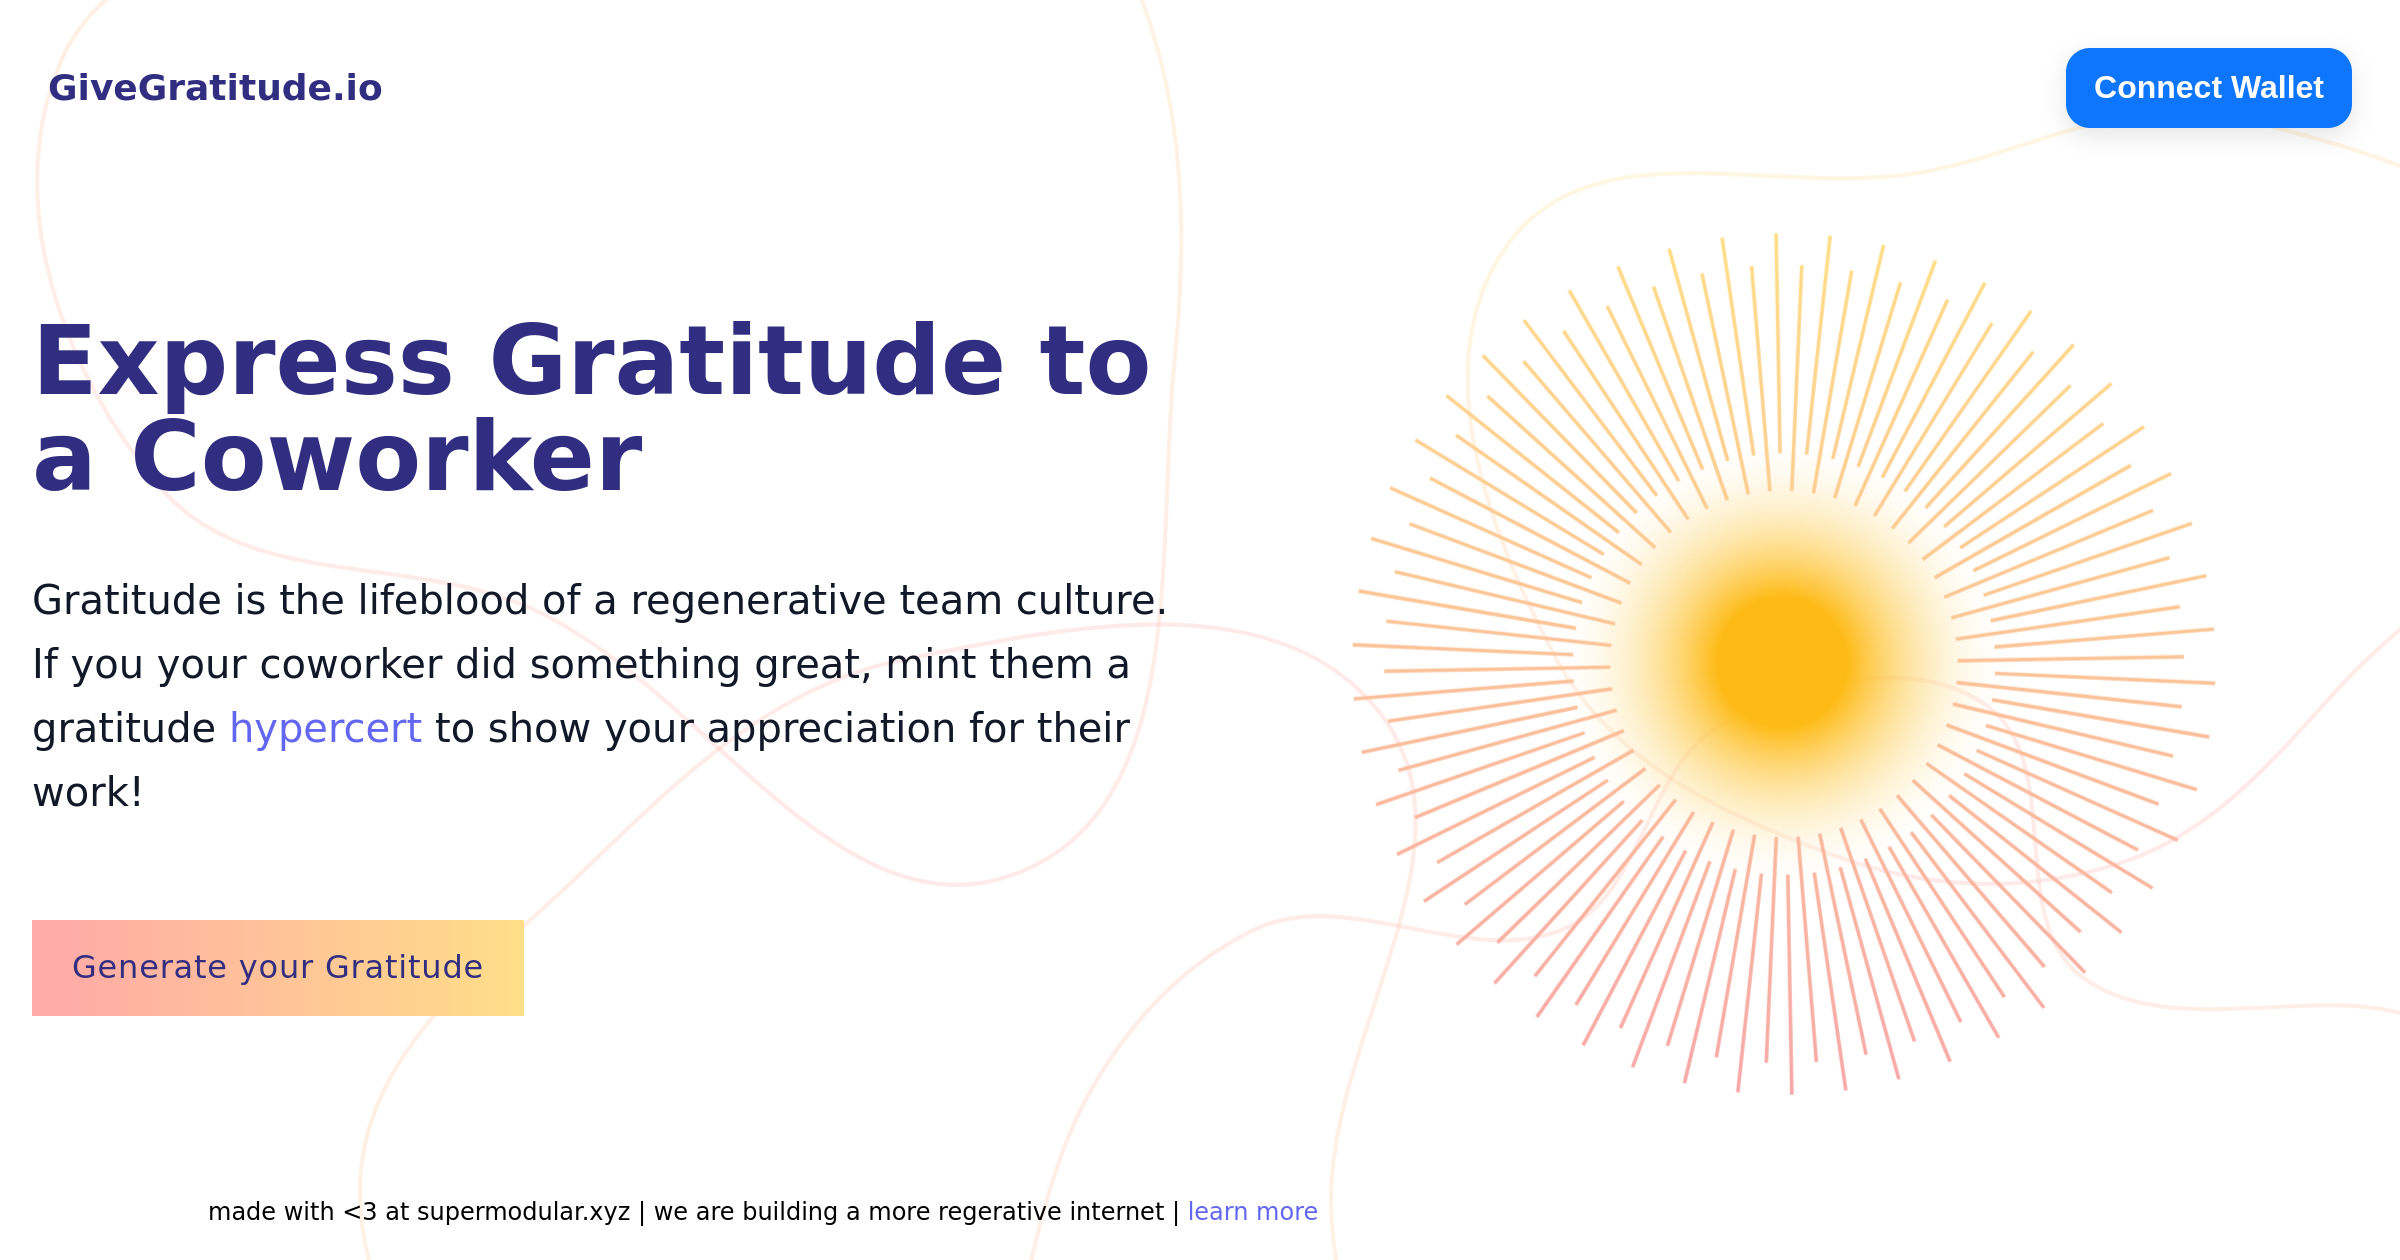
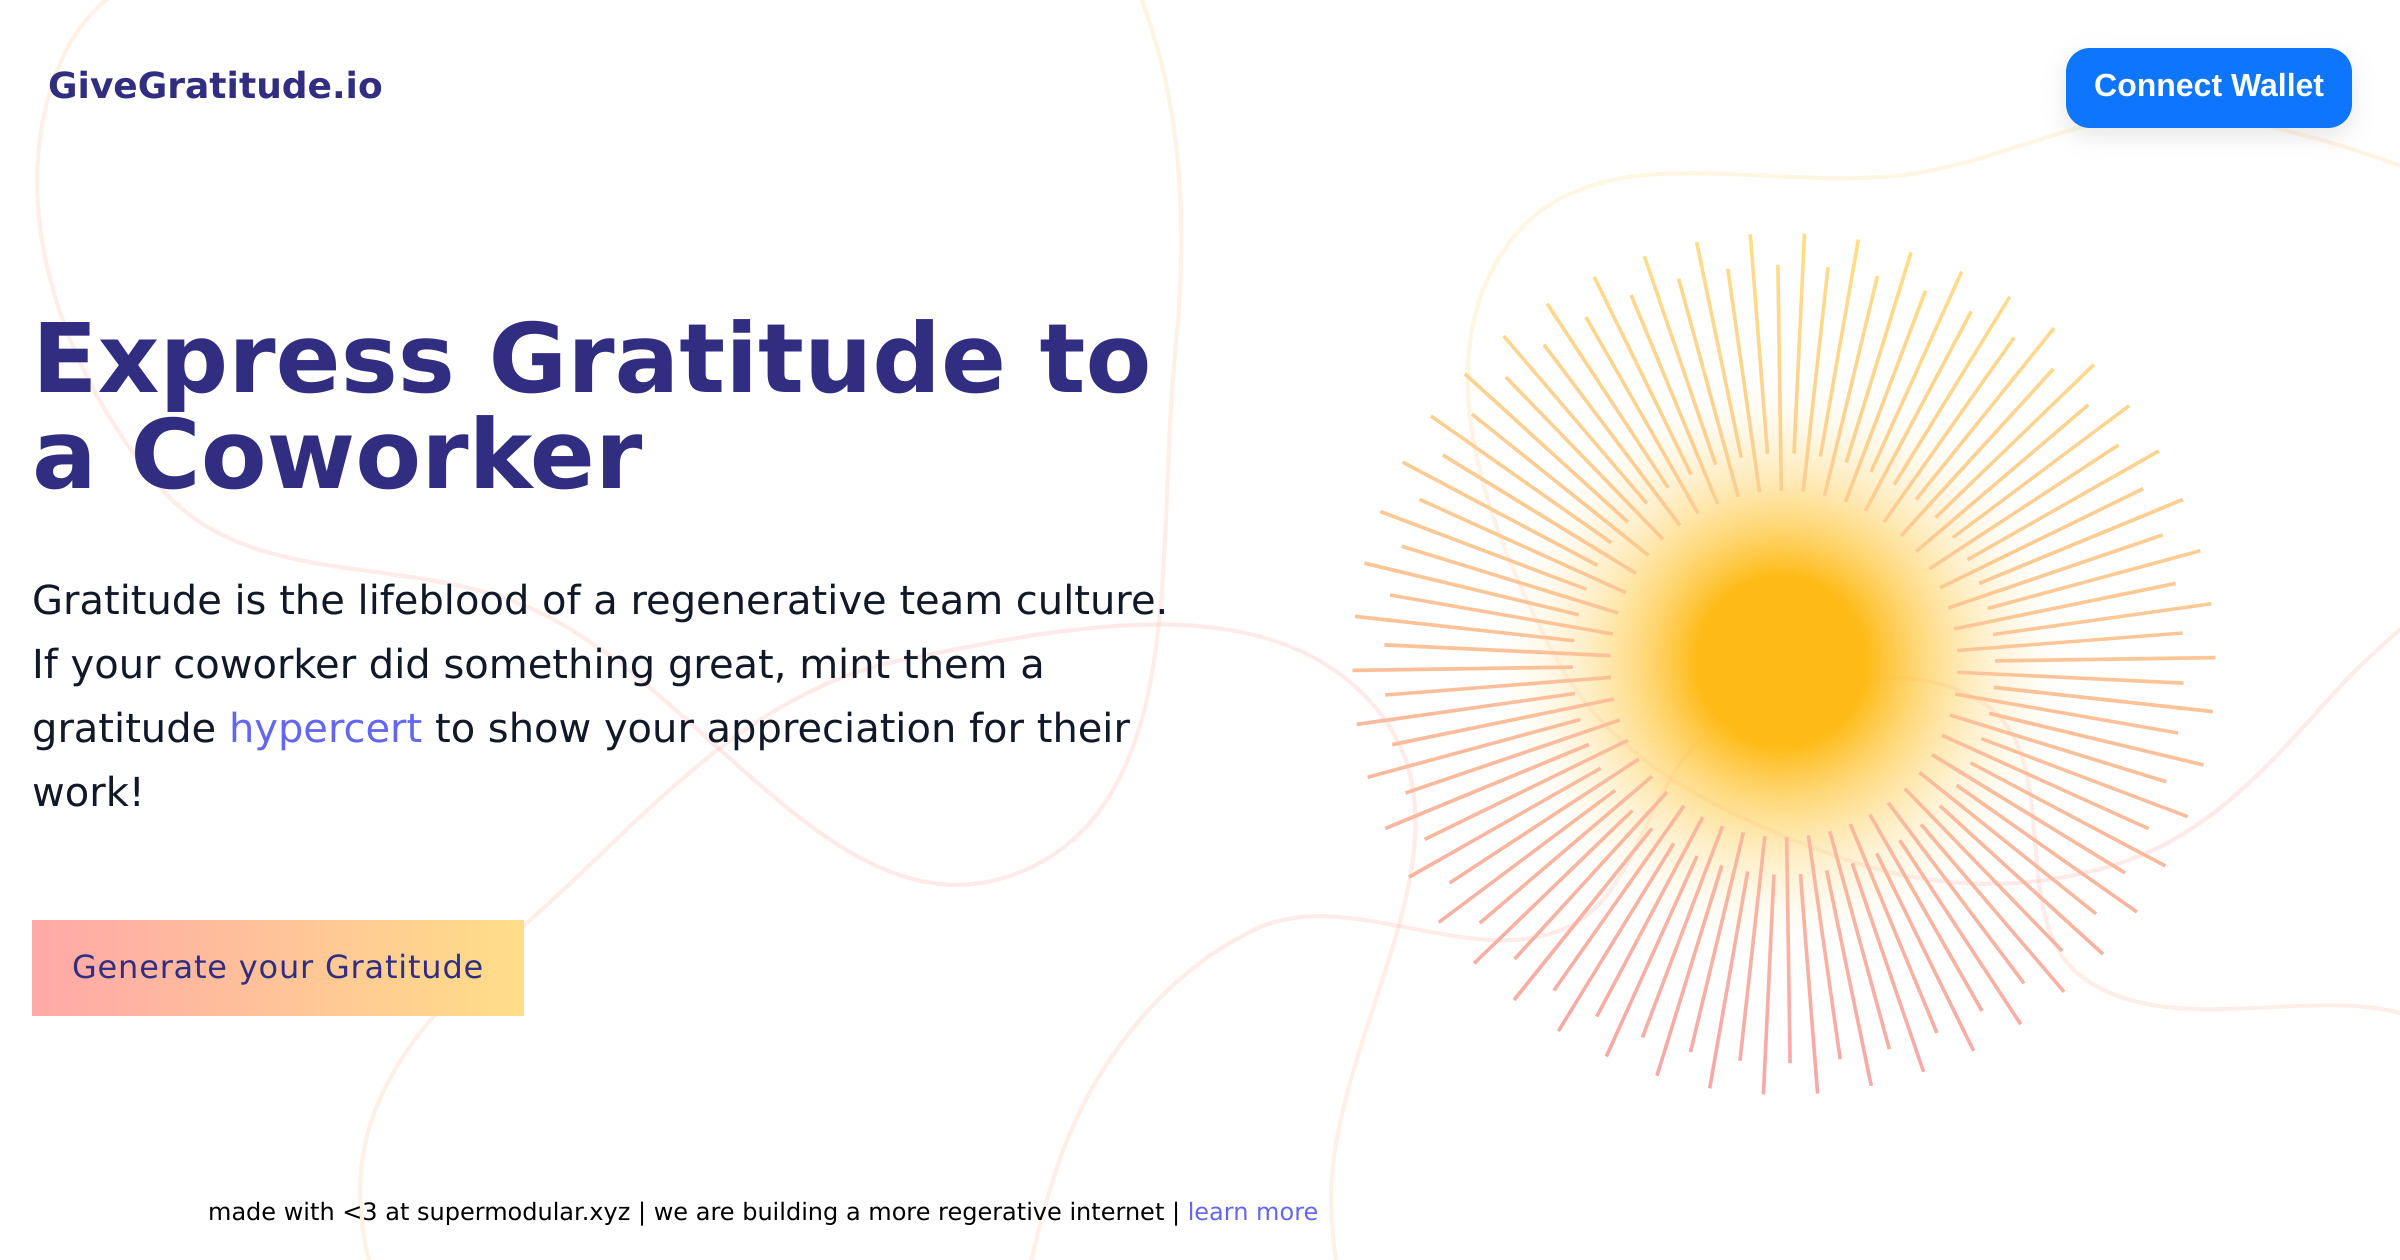
Fix spelling errors

diff --git a/src/pages/index.tsx b/src/pages/index.tsx
@@ -14,8 +14,8 @@ const Home: NextPage = () => {
             Express Gratitude to a Coworker
           </h1>
           <p className="mb-12 text-xl leading-8">
-            Gratitude is the lifeblood of a regenerative team culture. If you
-            your coworker did something great, mint them a gratitude{" "}
+            Gratitude is the lifeblood of a regenerative team culture. If your
+            coworker did something great, mint them a gratitude{" "}
             <a
               className="text-indigo-500 hover:text-indigo-800"
               href={"https://hypercerts.xyz"}

diff --git a/src/config/site.ts b/src/config/site.ts
@@ -1,5 +1,6 @@
 export default {
   title: "GiveGratitude.io",
-  description: "Express Gratitude to a Coworker",
+  description:
+    "Gratitude is the lifeblood of a regenerative team culture. If your coworker did something great, mint them a gratitude hypercert to show your appreciation for their work!",
   url: "https://givegratitude.io",
 };
